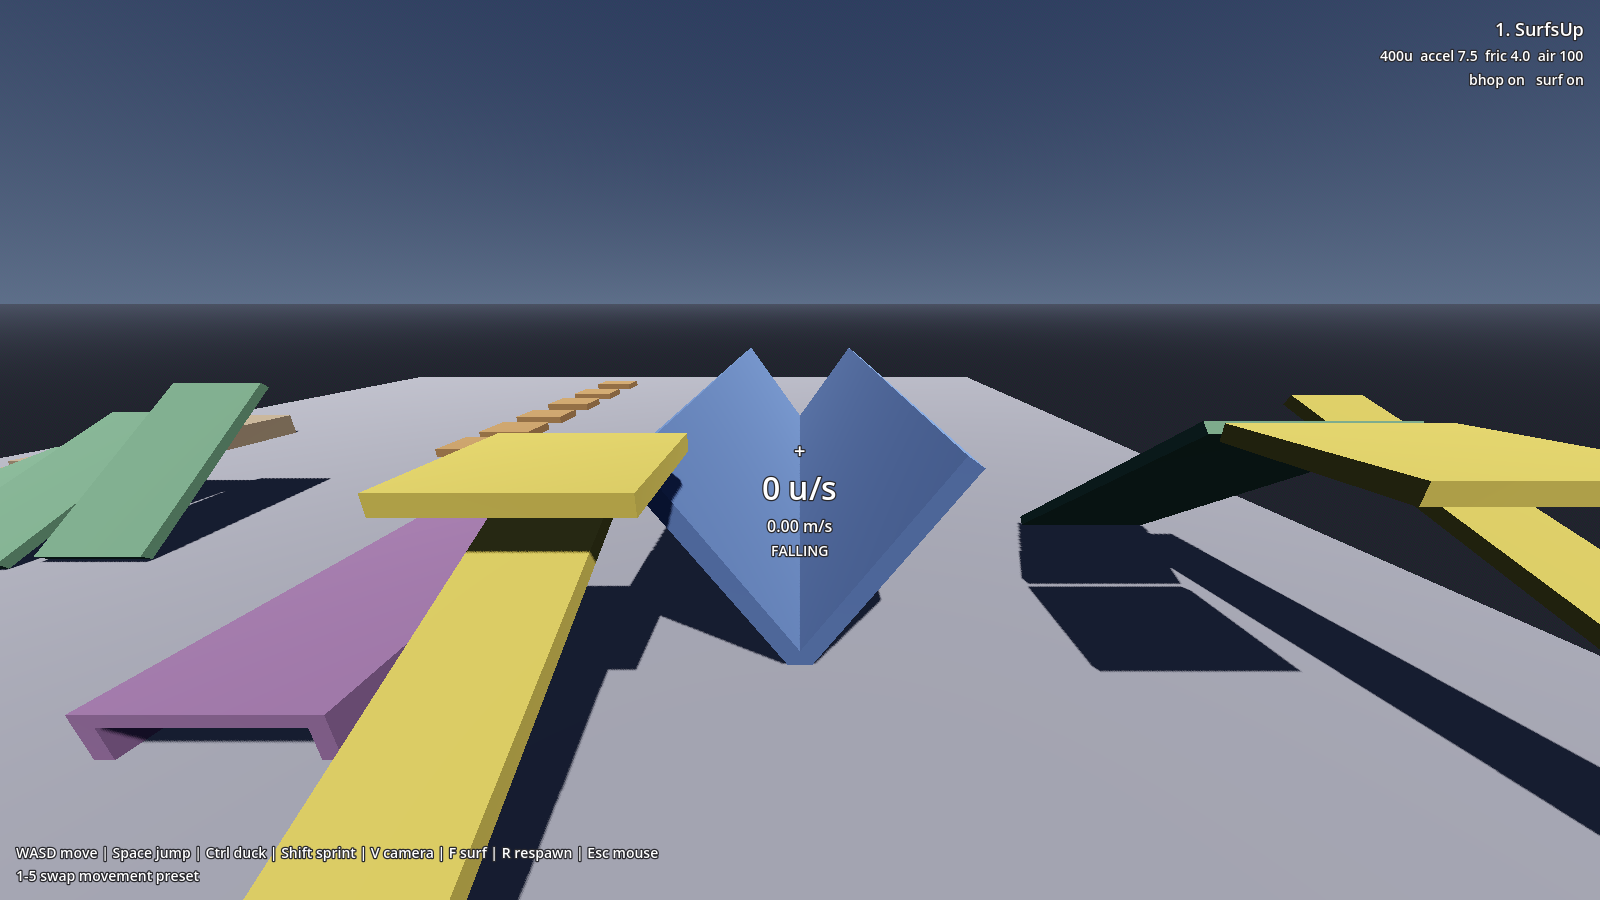
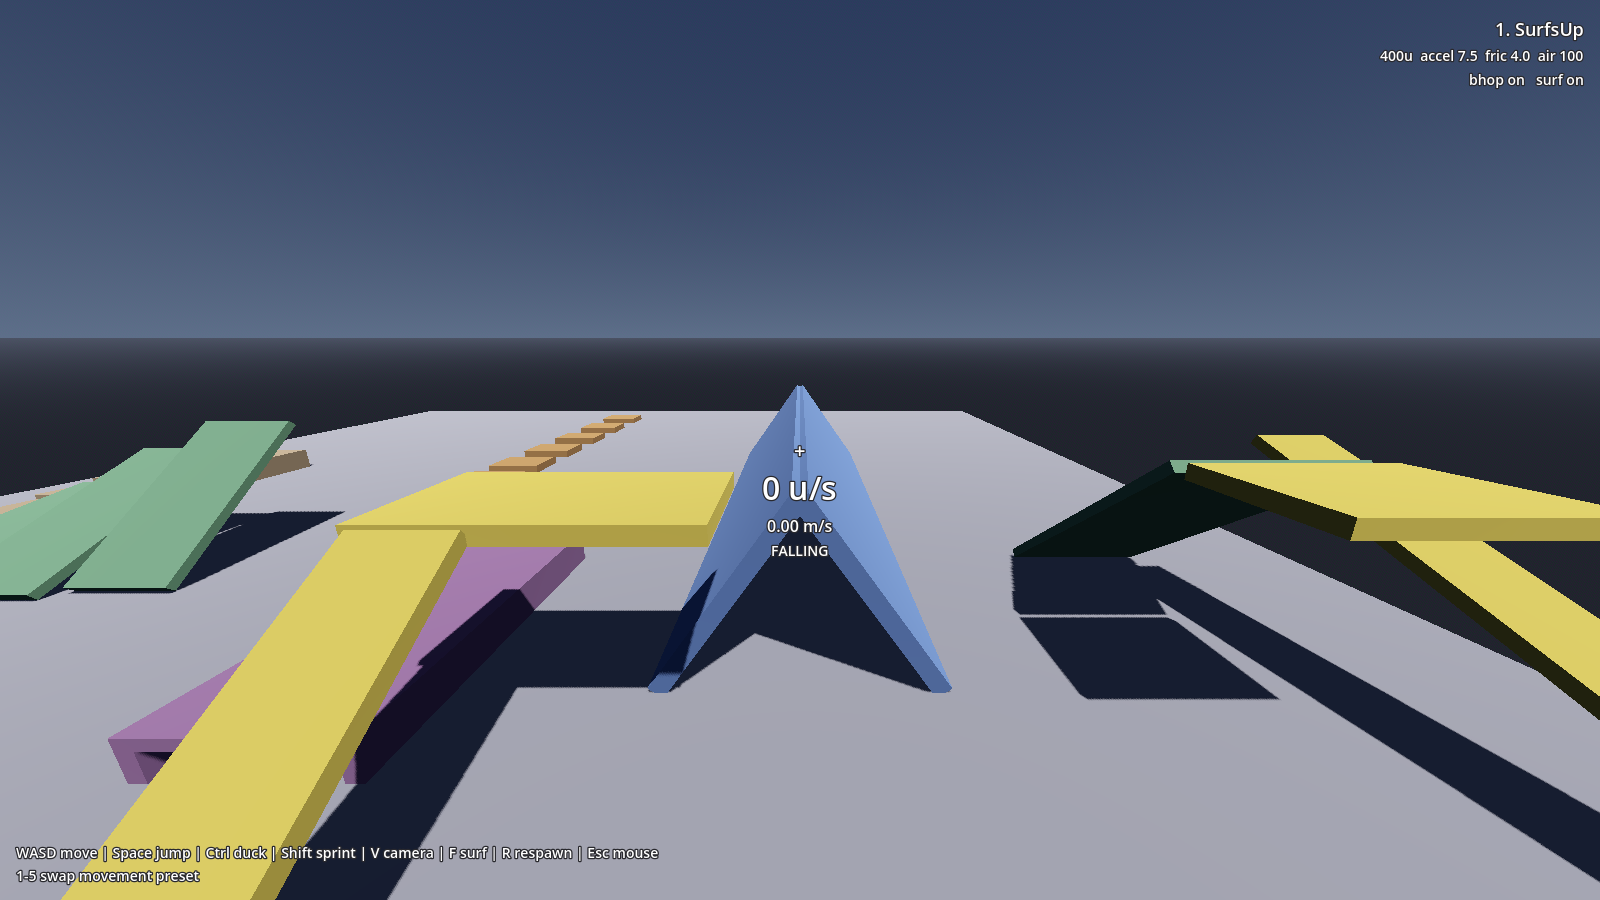
docs update

diff --git a/docs/explanation/demo-level.md b/docs/explanation/demo-level.md
@@ -104,19 +104,22 @@ Release Ctrl while still inside and you stay crouched, there's no room to stand,
 retries every frame rather than giving up. Walk out the far end and you stand
 automatically.
 
-## Surf ramps
+## Surf ramp
 
-![The surf trough](../images/gym-surf.png)
+![The surf ramp, a peak with two sloped faces](../images/gym-surf.png)
 
-Two ramps at **55°**, meeting at the bottom to form a V.
+Two faces at **55°** meeting at an apex, forming a peak rather than a valley.
 
 55° is past the 50° standing limit, so the surfaces never count as floor and you stay
 permanently airborne on them, which is exactly what
 [makes surfing work](movement.md#why-surfing-works). Walk up the yellow access ramp on the
-left (a walkable 25°), drop into the trough, and hold a strafe key into the slope.
+left (a walkable 35°) to the platform at the top, drop onto either face, and hold a strafe
+key into the slope.
 
-The two ramps meet rather than leaving a gap. An open V would let you fall straight
-through between them without ever touching a face.
+The peak shape is the one real surf maps use, and it matters. On a peak you ride the
+outer face with open floor beside you, so easing off the strafe key drops you off the
+side. That is the skill the mode is built around. A valley would funnel you into the
+bottom and hold you there, which teaches nothing.
 
 ## Slide
 

diff --git a/docs/tutorial.md b/docs/tutorial.md
@@ -66,8 +66,8 @@ different thing. Spend a minute on each:
   Holding jump is enough; you don't need to tap it.
 - **Crouch corridor** (purple), walk into it standing and you stop. Hold **Ctrl** and
   you fit.
-- **Surf ramps** (blue), the steep V. Walk up the yellow ramp, drop in, and hold a
-  strafe key into the slope.
+- **Surf ramp** (blue), the steep peak. Walk up the yellow ramp to the top, drop onto
+  one of the sloped faces, and hold a strafe key into the slope.
 - **Slide** (far right), a 40° chute you slide down.
 
 The number under the crosshair is your speed, shown twice: engine units per second on

diff --git a/docs/how-to/tune-movement.md b/docs/how-to/tune-movement.md
@@ -104,7 +104,7 @@ func enter_low_gravity() -> void:
 ## Test your changes
 
 Open `addons/SUCC/demo/test_level.tscn`, assign your config to the player, and run it.
-The stairs, ramps, bhop blocks and surf trough are all sized in engine units, so the
+The stairs, ramps, bhop blocks and surf ramp are all sized in engine units, so the
 demo tells you quickly whether a change broke something. The speed readout under the
 crosshair shows both m/s and engine units.
 
